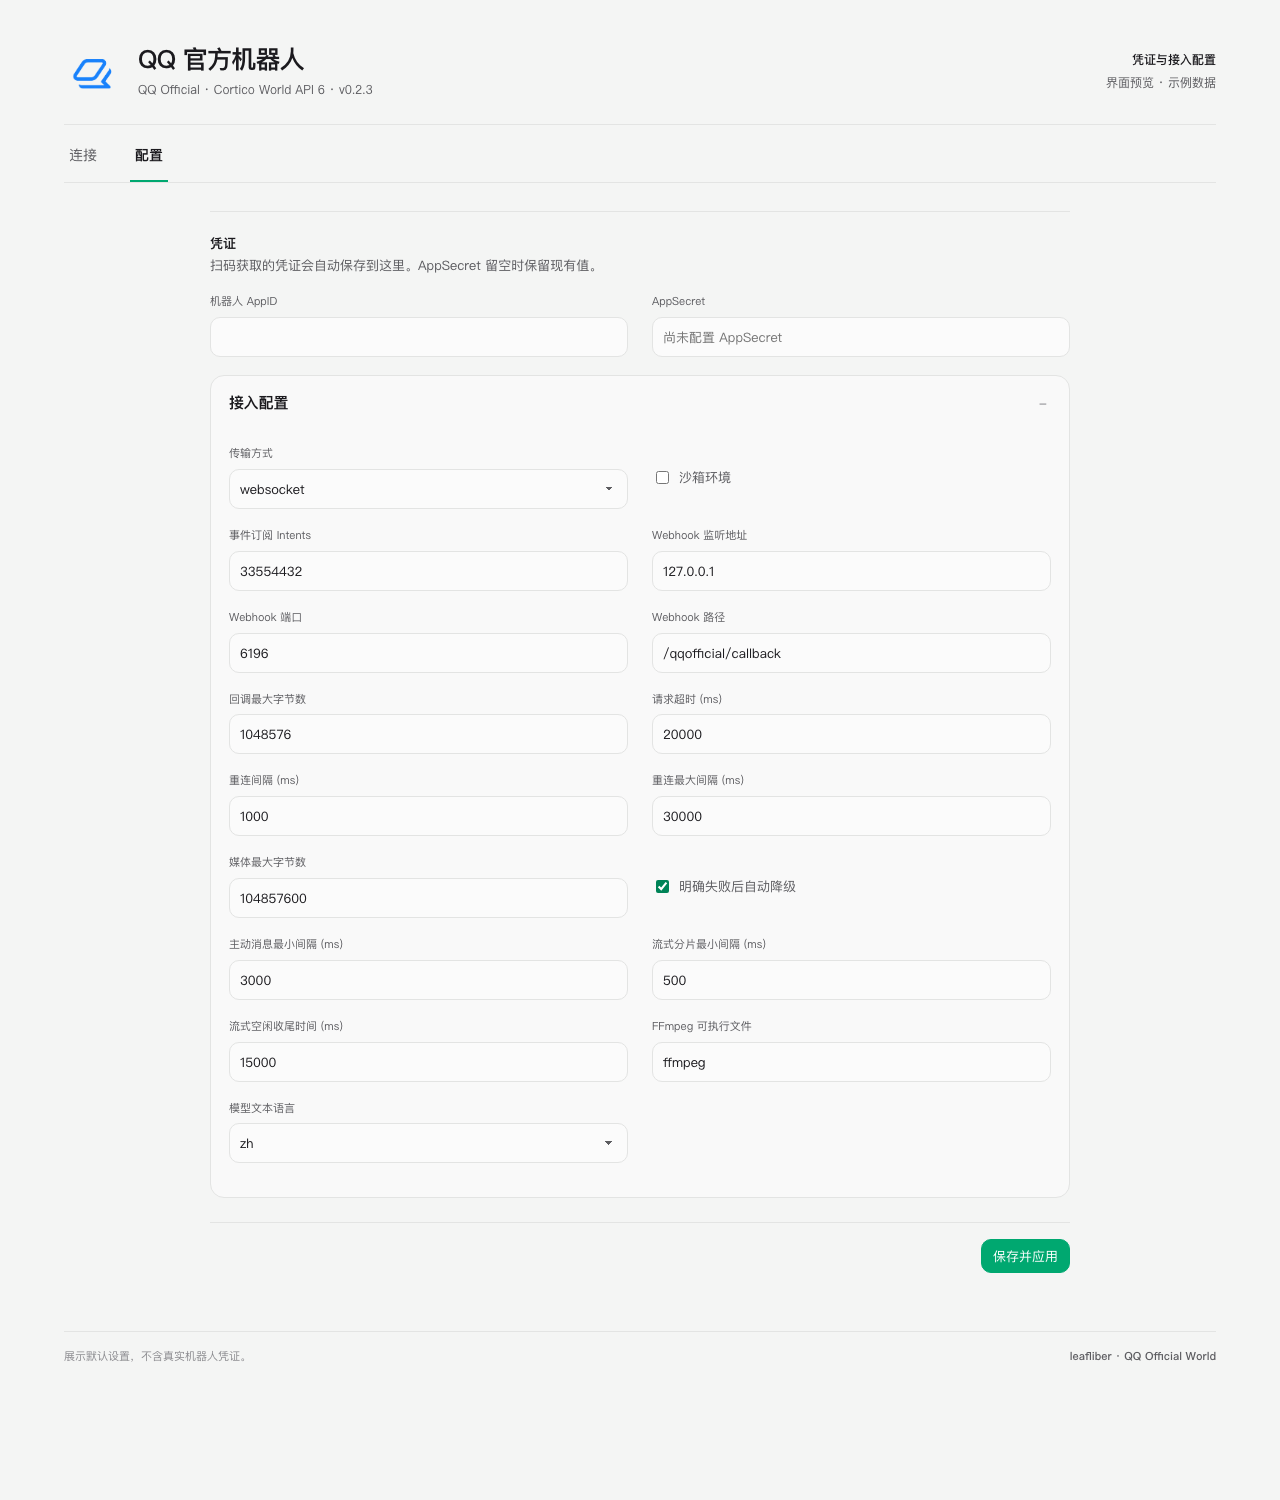
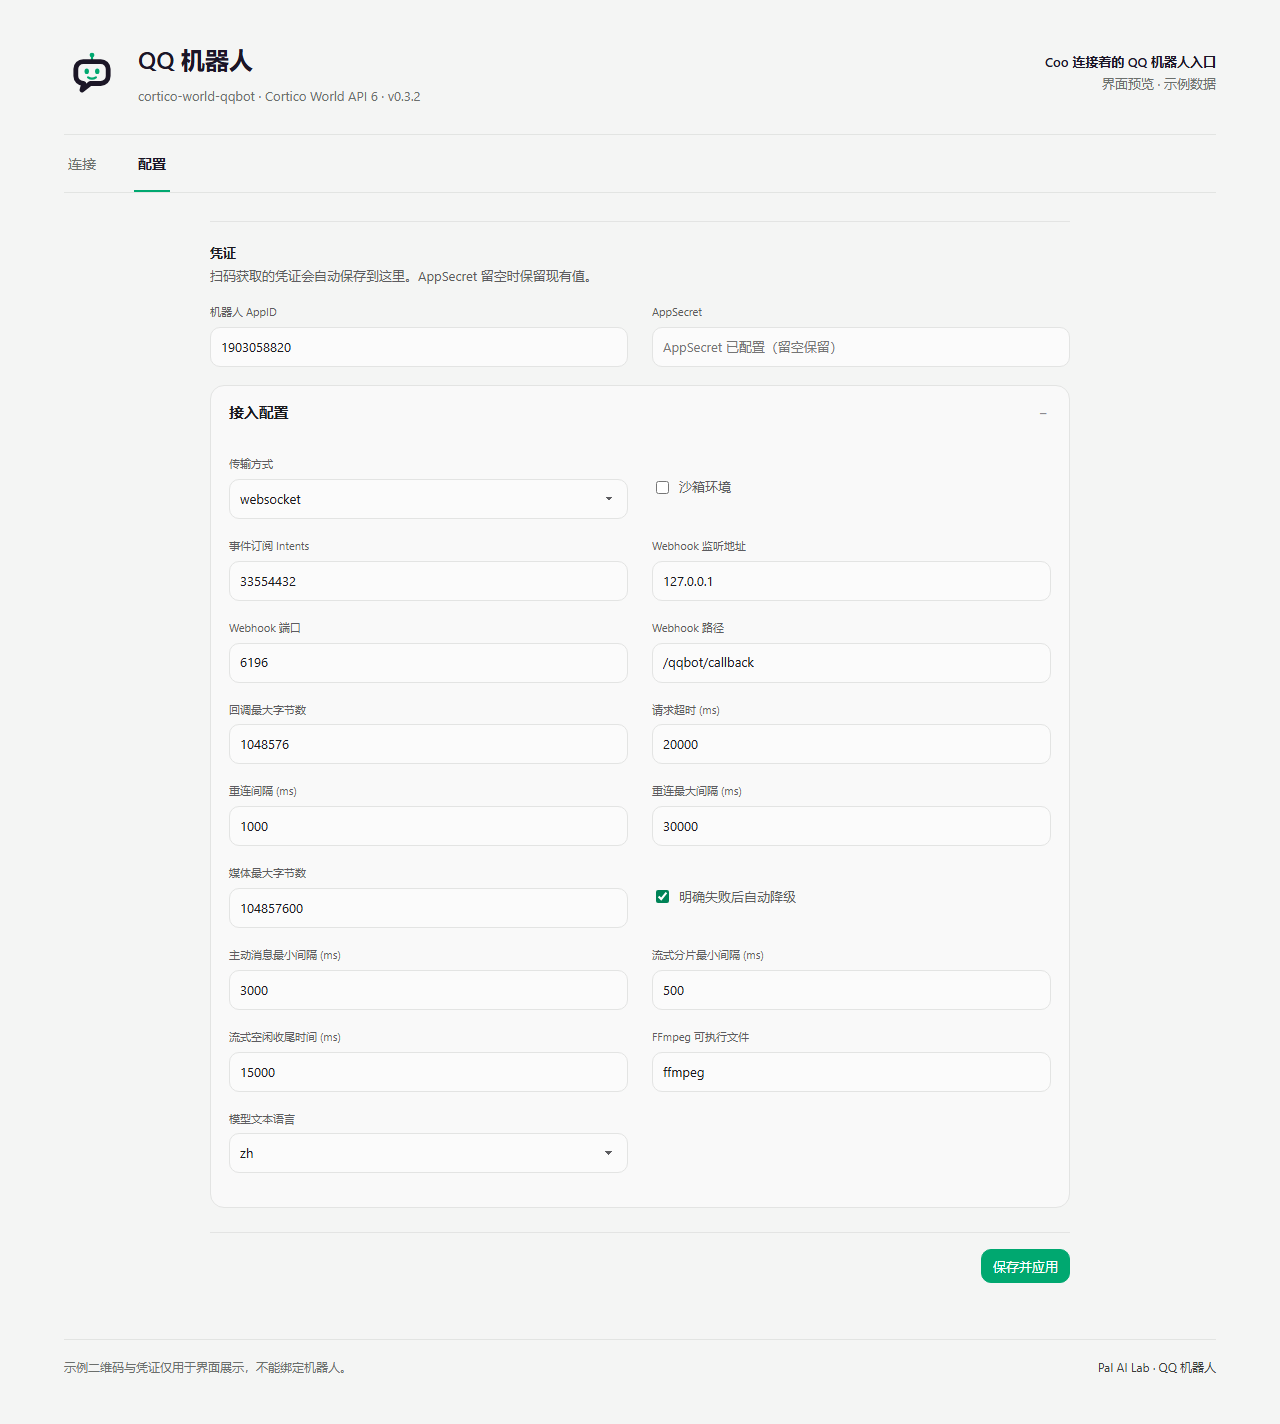
chore: new screenshots and scan hint, release 0.3.2
Re-render the three market screenshots from the real panels with sample
data under the QQ Bot name, and keep the harness in scripts/screenshots
so they can be regenerated. The scanning hint now asks for a new bot.

diff --git a/src/connection-text.ts b/src/connection-text.ts
@@ -4,7 +4,7 @@ const EN = {
   "connectionTab": "Connection",
   "configTab": "Configuration",
   "intro": "Scan with QQ on your phone to authorize your bot and talk to your companion in QQ.",
-  "scanHint": "Create or select a bot on QQ’s official page and confirm authorization. This page updates automatically.",
+  "scanHint": "Create a new bot on QQ’s page and confirm authorization. This page updates automatically.",
   "success": "Connected successfully",
   "successHint": "Your bot is ready to send and receive messages in QQ.",
   "authorized": "Bot authorized",
@@ -31,7 +31,7 @@ const COPY: Record<Language, QQOfficialConnectionStrings> = {
   "connectionTab": "连接",
   "configTab": "配置",
   "intro": "用手机 QQ 扫码，完成授权后即可在 QQ 中与你的伙伴对话。",
-  "scanHint": "在 QQ 官方页面完成机器人创建或选择，并确认授权。本页会自动更新。",
+  "scanHint": "在 QQ 页面里新建一个机器人，并确认授权。本页会自动更新。",
   "success": "连接成功",
   "successHint": "机器人已就绪，现在可以在 QQ 中收发消息。",
   "authorized": "机器人授权已完成",
@@ -55,7 +55,7 @@ const COPY: Record<Language, QQOfficialConnectionStrings> = {
   "connectionTab": "連線",
   "configTab": "配置",
   "intro": "用手機 QQ 掃碼，完成授權後即可在 QQ 中與你的夥伴對話。",
-  "scanHint": "在 QQ 官方頁面完成機器人建立或選擇，並確認授權。本頁會自動更新。",
+  "scanHint": "在 QQ 頁面裡新建一個機器人，並確認授權。本頁會自動更新。",
   "success": "連線成功",
   "successHint": "機器人已就緒，現在可以在 QQ 中收發訊息。",
   "authorized": "機器人授權已完成",
@@ -78,7 +78,7 @@ const COPY: Record<Language, QQOfficialConnectionStrings> = {
   "connectionTab": "接続",
   "configTab": "設定",
   "intro": "スマートフォンの QQ でスキャンして認証すると、QQ でパートナーと会話できます。",
-  "scanHint": "QQ 公式ページでボットを作成または選択し、認証を完了してください。このページは自動更新されます。",
+  "scanHint": "QQ のページで新しいボットを作成し、認証を完了してください。このページは自動更新されます。",
   "success": "接続しました",
   "successHint": "ボットは QQ でメッセージを送受信できます。",
   "authorized": "ボット認証完了",
@@ -101,7 +101,7 @@ const COPY: Record<Language, QQOfficialConnectionStrings> = {
   "connectionTab": "연결",
   "configTab": "설정",
   "intro": "휴대폰 QQ로 스캔하고 인증하면 QQ에서 동반자와 대화할 수 있습니다.",
-  "scanHint": "QQ 공식 페이지에서 봇을 만들거나 선택하고 인증을 완료하세요. 이 페이지는 자동으로 갱신됩니다.",
+  "scanHint": "QQ 페이지에서 새 봇을 만들고 인증을 완료하세요. 이 페이지는 자동으로 갱신됩니다.",
   "success": "연결 성공",
   "successHint": "이제 QQ에서 메시지를 주고받을 수 있습니다.",
   "authorized": "봇 인증 완료",
@@ -124,7 +124,7 @@ const COPY: Record<Language, QQOfficialConnectionStrings> = {
   "connectionTab": "Connexion",
   "configTab": "Configuration",
   "intro": "Scannez avec QQ sur votre téléphone pour autoriser le bot et discuter avec votre compagnon.",
-  "scanHint": "Créez ou sélectionnez un bot sur la page officielle de QQ et autorisez-le. Cette page se met à jour automatiquement.",
+  "scanHint": "Créez un nouveau bot sur la page QQ et autorisez-le. Cette page se met à jour automatiquement.",
   "success": "Connexion réussie",
   "successHint": "Votre bot peut maintenant envoyer et recevoir des messages dans QQ.",
   "authorized": "Bot autorisé",
@@ -147,7 +147,7 @@ const COPY: Record<Language, QQOfficialConnectionStrings> = {
   "connectionTab": "Verbindung",
   "configTab": "Konfiguration",
   "intro": "Scanne mit QQ auf deinem Handy, um den Bot zu autorisieren und mit deinem Begleiter zu chatten.",
-  "scanHint": "Erstelle oder wähle einen Bot auf der offiziellen QQ-Seite und bestätige die Freigabe. Diese Seite aktualisiert sich automatisch.",
+  "scanHint": "Erstelle auf der QQ-Seite einen neuen Bot und bestätige die Freigabe. Diese Seite aktualisiert sich automatisch.",
   "success": "Erfolgreich verbunden",
   "successHint": "Dein Bot kann jetzt Nachrichten in QQ senden und empfangen.",
   "authorized": "Bot autorisiert",
@@ -170,7 +170,7 @@ const COPY: Record<Language, QQOfficialConnectionStrings> = {
   "connectionTab": "Conexión",
   "configTab": "Configuración",
   "intro": "Escanea con QQ en tu teléfono para autorizar el bot y hablar con tu compañero.",
-  "scanHint": "Crea o selecciona un bot en la página oficial de QQ y autorízalo. Esta página se actualiza automáticamente.",
+  "scanHint": "Crea un bot nuevo en la página de QQ y autorízalo. Esta página se actualiza automáticamente.",
   "success": "Conexión exitosa",
   "successHint": "Tu bot ya puede enviar y recibir mensajes en QQ.",
   "authorized": "Bot autorizado",
@@ -193,7 +193,7 @@ const COPY: Record<Language, QQOfficialConnectionStrings> = {
   "connectionTab": "Conexão",
   "configTab": "Configuração",
   "intro": "Escaneie com o QQ no celular para autorizar o bot e conversar com seu companheiro.",
-  "scanHint": "Crie ou selecione um bot na página oficial do QQ e autorize-o. Esta página é atualizada automaticamente.",
+  "scanHint": "Crie um novo bot na página do QQ e autorize-o. Esta página é atualizada automaticamente.",
   "success": "Conexão bem-sucedida",
   "successHint": "Seu bot já pode enviar e receber mensagens no QQ.",
   "authorized": "Bot autorizado",
@@ -216,7 +216,7 @@ const COPY: Record<Language, QQOfficialConnectionStrings> = {
   "connectionTab": "Connessione",
   "configTab": "Configurazione",
   "intro": "Scansiona con QQ sul telefono per autorizzare il bot e parlare con il tuo compagno.",
-  "scanHint": "Crea o seleziona un bot sulla pagina ufficiale di QQ e autorizzalo. Questa pagina si aggiorna automaticamente.",
+  "scanHint": "Crea un nuovo bot sulla pagina di QQ e autorizzalo. Questa pagina si aggiorna automaticamente.",
   "success": "Connessione riuscita",
   "successHint": "Il bot è pronto a inviare e ricevere messaggi su QQ.",
   "authorized": "Bot autorizzato",
@@ -239,7 +239,7 @@ const COPY: Record<Language, QQOfficialConnectionStrings> = {
   "connectionTab": "Подключение",
   "configTab": "Настройки",
   "intro": "Сканируйте через QQ на телефоне, чтобы авторизовать бота и общаться с вашим компаньоном.",
-  "scanHint": "Создайте или выберите бота на официальной странице QQ и подтвердите авторизацию. Эта страница обновляется автоматически.",
+  "scanHint": "Создайте нового бота на странице QQ и подтвердите авторизацию. Эта страница обновляется автоматически.",
   "success": "Подключение успешно",
   "successHint": "Бот готов отправлять и получать сообщения в QQ.",
   "authorized": "Бот авторизован",

diff --git a/scripts/screenshots/entry.ts b/scripts/screenshots/entry.ts
@@ -1,0 +1,39 @@
+// Renders the real panels with sample data for the market screenshots (see scripts/screenshots/build.mjs).
+import QRCode from 'qrcode';
+import * as sdkUi from 'cortico/web/client/ui/index.ts';
+import bundle from '../../src/webui.js';
+import { qqOfficialText } from '../../src/strings.ts';
+import { qqOfficialConfigGroup, QQOFFICIAL_DEFAULTS } from '../../src/config.ts';
+import { getByPath } from 'cortico/core/config-schema.ts';
+
+const mode = location.hash.slice(1) || 'connection';
+const t = qqOfficialText('zh');
+const appId = '1903058820';
+
+async function state(): Promise<Record<string, unknown>> {
+  const base = { appId: '', secretSet: false, enabled: false, status: 'offline', detail: '', binding: null, text: t };
+  if (mode === 'connection') {
+    const url = 'https://q.qq.com/qqbot/openclaw/connect.html?task_id=example-preview&_wv=2';
+    const qrDataUrl = await QRCode.toDataURL(url, { errorCorrectionLevel: 'M', margin: 4, width: 280 });
+    return { ...base, binding: { url, qrDataUrl, expiresAtMs: Date.now() + 178_000 } };
+  }
+  const ready = { ...base, appId, secretSet: true, enabled: true, status: 'online' };
+  if (mode === 'connected') return ready;
+  const cfg = { ...structuredClone(QQOFFICIAL_DEFAULTS), enabled: true, appId };
+  const group = qqOfficialConfigGroup('zh');
+  const root = { worlds: { qqbot: cfg } };
+  return { ...ready, group, values: Object.fromEntries(Object.keys(group.schema.properties).map((key) => [key, getByPath(root, key)])) };
+}
+
+const panelRoot = document.getElementById('panel')!;
+for (const tab of document.querySelectorAll<HTMLElement>('[data-tab]')) tab.classList.toggle('on', tab.dataset.tab === (mode === 'configuration' ? 'configuration' : 'connection'));
+const abort = new AbortController();
+const ui = sdkUi.createWebUi({ memo: { get: (_k: string, fallback: unknown) => fallback, set: () => {} }, overlayHost: document.body, signal: abort.signal } as never);
+const snapshot = await state();
+const ctx = {
+  root: panelRoot, signal: abort.signal, ui, pageId: 'world:qqbot', refresh: async () => {},
+  invoke: async (method: string) => (method === 'poll' ? { kind: 'pending' } : snapshot),
+};
+await bundle.panels[mode === 'configuration' ? 'configuration' : 'connection'].mount(ctx as never);
+if (mode === 'configuration') for (const fold of document.querySelectorAll('details')) fold.open = true;
+document.body.dataset.ready = '1';

diff --git a/scripts/screenshots/page.html b/scripts/screenshots/page.html
@@ -1,0 +1,36 @@
+<!doctype html>
+<html lang="zh-CN" data-color-mode="light">
+<head>
+<meta charset="utf-8">
+<link rel="stylesheet" href="styles.css">
+<style>
+  html, body { height: auto; }
+  body { margin: 0; background: #F4F5F4; }
+  .frame { width: 1152px; margin: 0 auto; padding: 40px 0 48px; }
+  .head { display: flex; align-items: center; gap: 18px; padding-bottom: 28px; border-bottom: 1px solid #E2E4E2; }
+  .head img { width: 56px; height: 56px; }
+  .head h1 { margin: 0; font-size: 24px; font-weight: 600; color: #1B1626; }
+  .head .sub { margin-top: 6px; font-size: 13px; color: #6B6F6C; }
+  .head .meta { margin-left: auto; text-align: right; font-size: 13px; color: #6B6F6C; line-height: 1.7; }
+  .head .meta b { color: #1B1626; font-weight: 600; }
+  .tabs { display: flex; gap: 34px; border-bottom: 1px solid #E2E4E2; margin-bottom: 28px; }
+  .tabs span { padding: 18px 4px 14px; font-size: 14px; color: #6B6F6C; border-bottom: 2px solid transparent; }
+  .tabs span.on { color: #1B1626; font-weight: 600; border-color: #00A870; }
+  .foot { display: flex; margin-top: 56px; padding-top: 18px; border-top: 1px solid #E2E4E2; font-size: 12px; color: #6B6F6C; }
+  .foot span:last-child { margin-left: auto; color: #3A3D3B; }
+</style>
+</head>
+<body>
+<div class="frame">
+  <div class="head">
+    <img src="icon.svg" alt="">
+    <div><h1>QQ 机器人</h1><div class="sub">cortico-world-qqbot · Cortico World API 6 · v0.3.2</div></div>
+    <div class="meta"><b>Coo 连接着的 QQ 机器人入口</b><br>界面预览 · 示例数据</div>
+  </div>
+  <div class="tabs"><span data-tab="connection">连接</span><span data-tab="configuration">配置</span></div>
+  <div id="panel"></div>
+  <div class="foot"><span>示例二维码与凭证仅用于界面展示，不能绑定机器人。</span><span>Pal AI Lab · QQ 机器人</span></div>
+</div>
+<script type="module" src="entry.js"></script>
+</body>
+</html>

diff --git a/README.md b/README.md
@@ -1,7 +1,7 @@
 <!-- Owner: src/definition.ts, src/world.ts, src/config.ts, package.json -->
 
 <p align="center">
-  <img src="https://raw.githubusercontent.com/Pal-AI-Lab/cortico-world-qqbot/v0.3.1/assets/icon.svg" alt="QQ Bot" width="88" height="88">
+  <img src="https://raw.githubusercontent.com/Pal-AI-Lab/cortico-world-qqbot/v0.3.2/assets/icon.svg" alt="QQ Bot" width="88" height="88">
 </p>
 
 # QQ Bot (cortico-world-qqbot)
@@ -21,13 +21,13 @@ Maintained by [Pal AI Lab](https://github.com/Pal-AI-Lab), originally written by
 
 ## Panel previews
 
-The screenshots render the actual extension panels with Cortico UI components and sample data. They contain no live QR authorization, bot credentials or private conversations.
+The screenshots render the actual extension panels with Cortico UI components and sample data. They contain no live QR authorization, bot credentials or private conversations. After UI changes, regenerate them with `node scripts/screenshots/build.mjs`; the steps are at the top of that script.
 
-![QQ connection panel](https://raw.githubusercontent.com/Pal-AI-Lab/cortico-world-qqbot/v0.3.1/assets/screenshots/connection-zh.png)
+![QQ connection panel](https://raw.githubusercontent.com/Pal-AI-Lab/cortico-world-qqbot/v0.3.2/assets/screenshots/connection-zh.png)
 
-![Connection success panel with the QR code removed](https://raw.githubusercontent.com/Pal-AI-Lab/cortico-world-qqbot/v0.3.1/assets/screenshots/connected-zh.png)
+![Connection success panel with the QR code removed](https://raw.githubusercontent.com/Pal-AI-Lab/cortico-world-qqbot/v0.3.2/assets/screenshots/connected-zh.png)
 
-![Credentials and connection settings](https://raw.githubusercontent.com/Pal-AI-Lab/cortico-world-qqbot/v0.3.1/assets/screenshots/configuration-zh.png)
+![Credentials and connection settings](https://raw.githubusercontent.com/Pal-AI-Lab/cortico-world-qqbot/v0.3.2/assets/screenshots/configuration-zh.png)
 
 ## Install
 

diff --git a/README_zh.md b/README_zh.md
@@ -1,7 +1,7 @@
 <!-- Owner: src/definition.ts, src/world.ts, src/config.ts, package.json -->
 
 <p align="center">
-  <img src="https://raw.githubusercontent.com/Pal-AI-Lab/cortico-world-qqbot/v0.3.1/assets/icon.svg" alt="QQ 机器人" width="88" height="88">
+  <img src="https://raw.githubusercontent.com/Pal-AI-Lab/cortico-world-qqbot/v0.3.2/assets/icon.svg" alt="QQ 机器人" width="88" height="88">
 </p>
 
 # QQ 机器人(cortico-world-qqbot)
@@ -21,13 +21,13 @@ World ID 为 `qqbot`,可以和 OneBot 协议的 `qq` World 同时装。每份部
 
 ## 界面预览
 
-以下截图使用扩展的真实面板代码、Cortico 界面组件与示例数据渲染，不含有效扫码授权、真实机器人凭证或私人聊天。
+以下截图使用扩展的真实面板代码、Cortico 界面组件与示例数据渲染，不含有效扫码授权、真实机器人凭证或私人聊天。改了界面后用 `node scripts/screenshots/build.mjs` 重新生成，步骤写在脚本开头。
 
-![QQ 扫码连接面板](https://raw.githubusercontent.com/Pal-AI-Lab/cortico-world-qqbot/v0.3.1/assets/screenshots/connection-zh.png)
+![QQ 扫码连接面板](https://raw.githubusercontent.com/Pal-AI-Lab/cortico-world-qqbot/v0.3.2/assets/screenshots/connection-zh.png)
 
-![连接成功后隐藏二维码](https://raw.githubusercontent.com/Pal-AI-Lab/cortico-world-qqbot/v0.3.1/assets/screenshots/connected-zh.png)
+![连接成功后隐藏二维码](https://raw.githubusercontent.com/Pal-AI-Lab/cortico-world-qqbot/v0.3.2/assets/screenshots/connected-zh.png)
 
-![凭证与接入配置](https://raw.githubusercontent.com/Pal-AI-Lab/cortico-world-qqbot/v0.3.1/assets/screenshots/configuration-zh.png)
+![凭证与接入配置](https://raw.githubusercontent.com/Pal-AI-Lab/cortico-world-qqbot/v0.3.2/assets/screenshots/configuration-zh.png)
 
 ## 安装
 

diff --git a/CHANGELOG.md b/CHANGELOG.md
@@ -2,6 +2,11 @@
 
 # Changelog
 
+## 0.3.2
+
+- New market screenshots of the QQ Bot panels, rendered from the real panel code with sample data; `scripts/screenshots/` rebuilds them.
+- The scanning hint asks for a new bot, since picking an existing one has returned credentials that yield no token.
+
 ## 0.3.1
 
 - New market icon in the house style of Pal AI Lab extensions.
